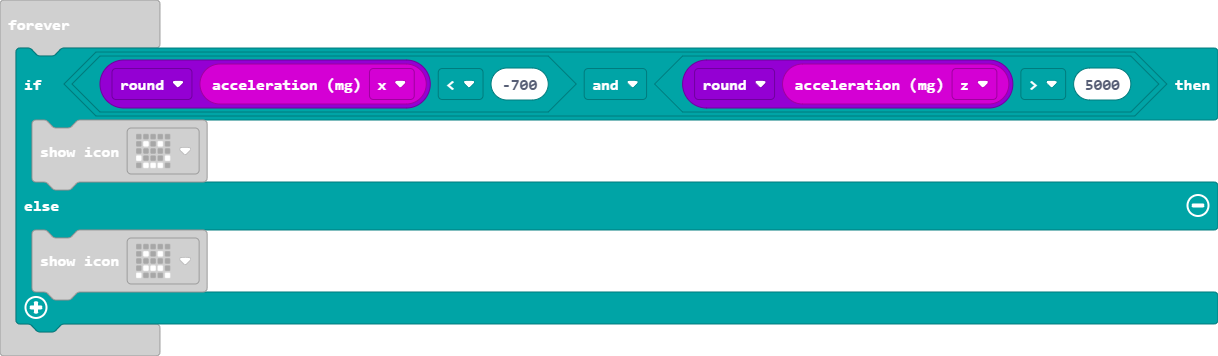
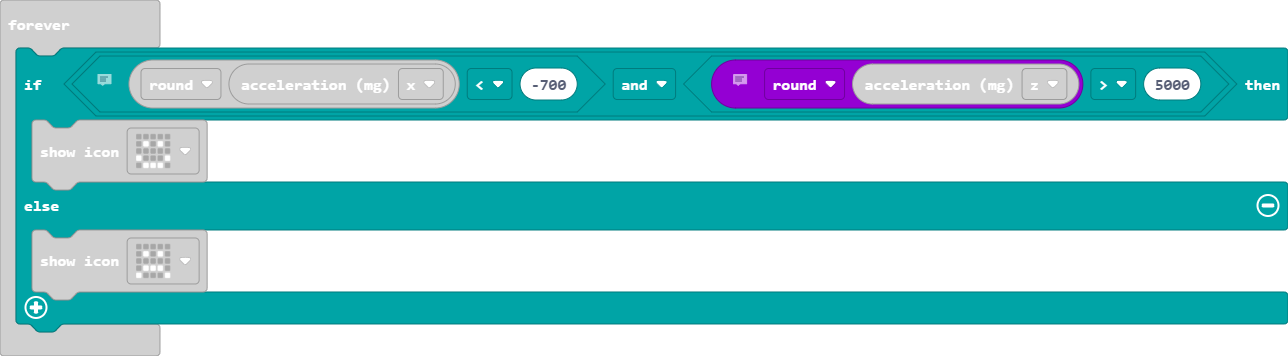
Update main.blocks, main.ts

diff --git a/main.ts b/main.ts
@@ -1,5 +1,7 @@
 let X_tilt = Math.round(input.acceleration(Dimension.X))
 basic.forever(function () {
+    // Activates when watering can tilt pass certain angle
+    // Activates when watering can raise past a certain height
     if (Math.round(input.acceleration(Dimension.X)) < -700 && Math.round(input.acceleration(Dimension.Z)) > 5000) {
         basic.showIcon(IconNames.Happy)
     } else {
